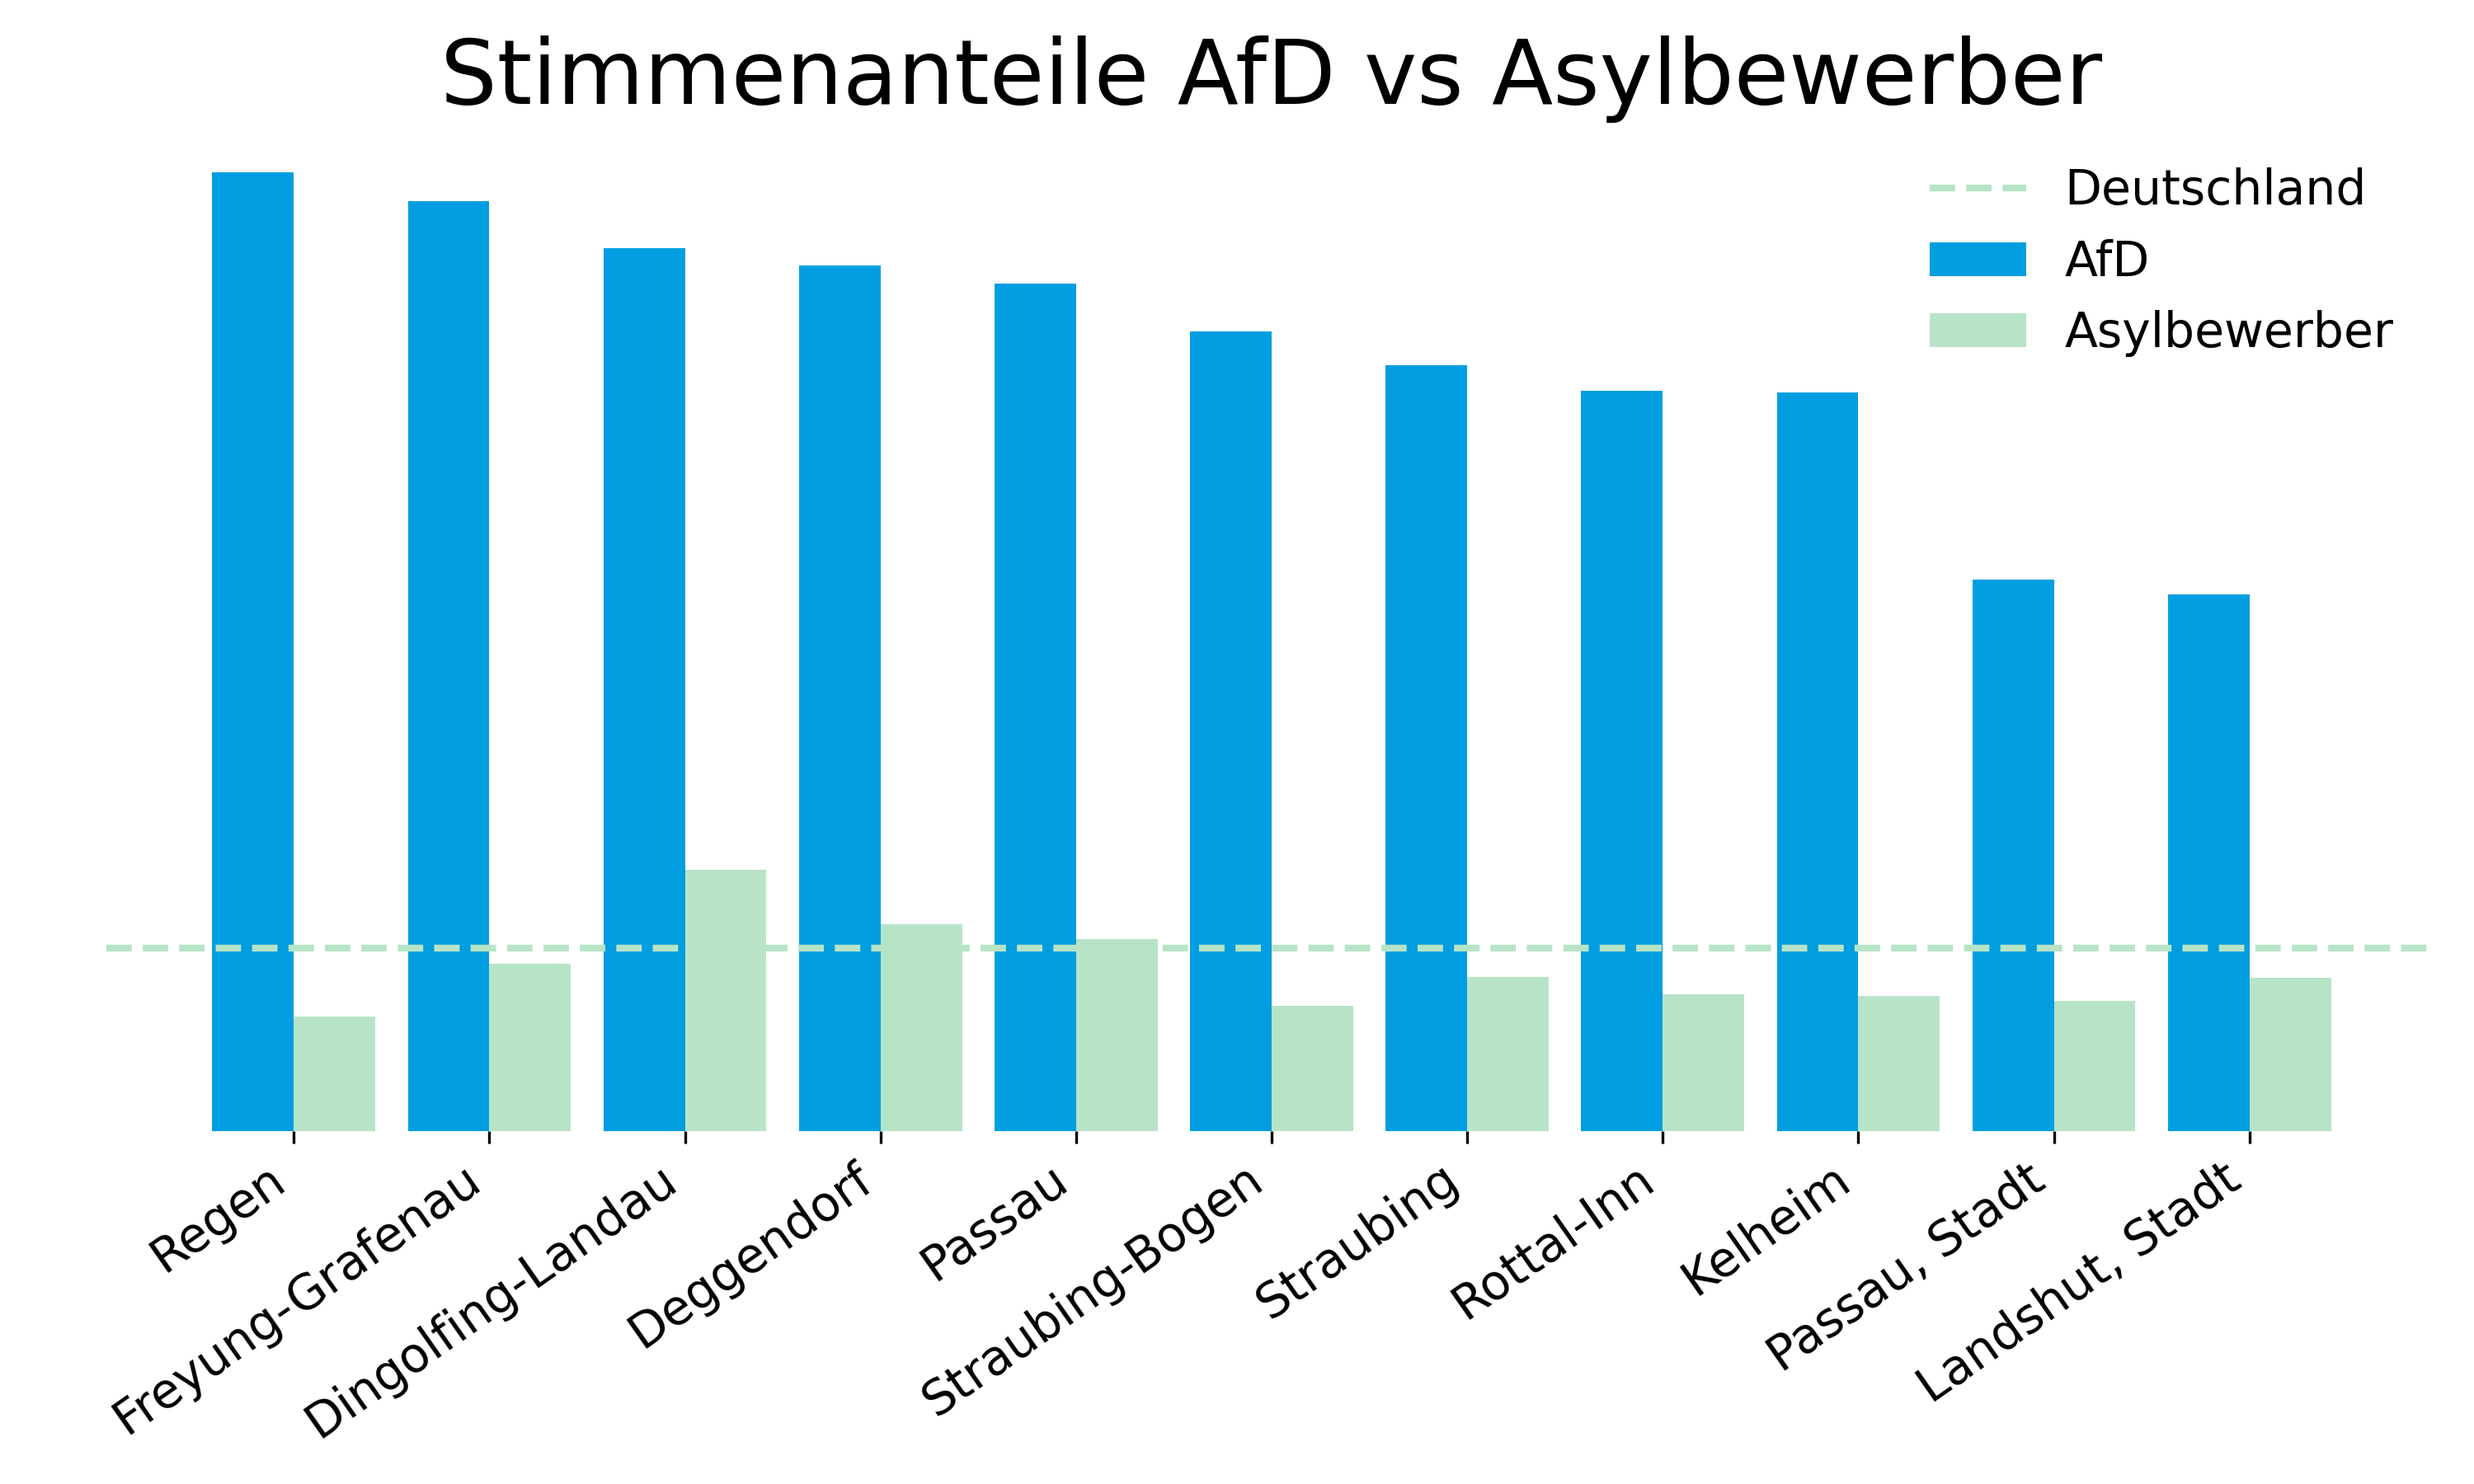
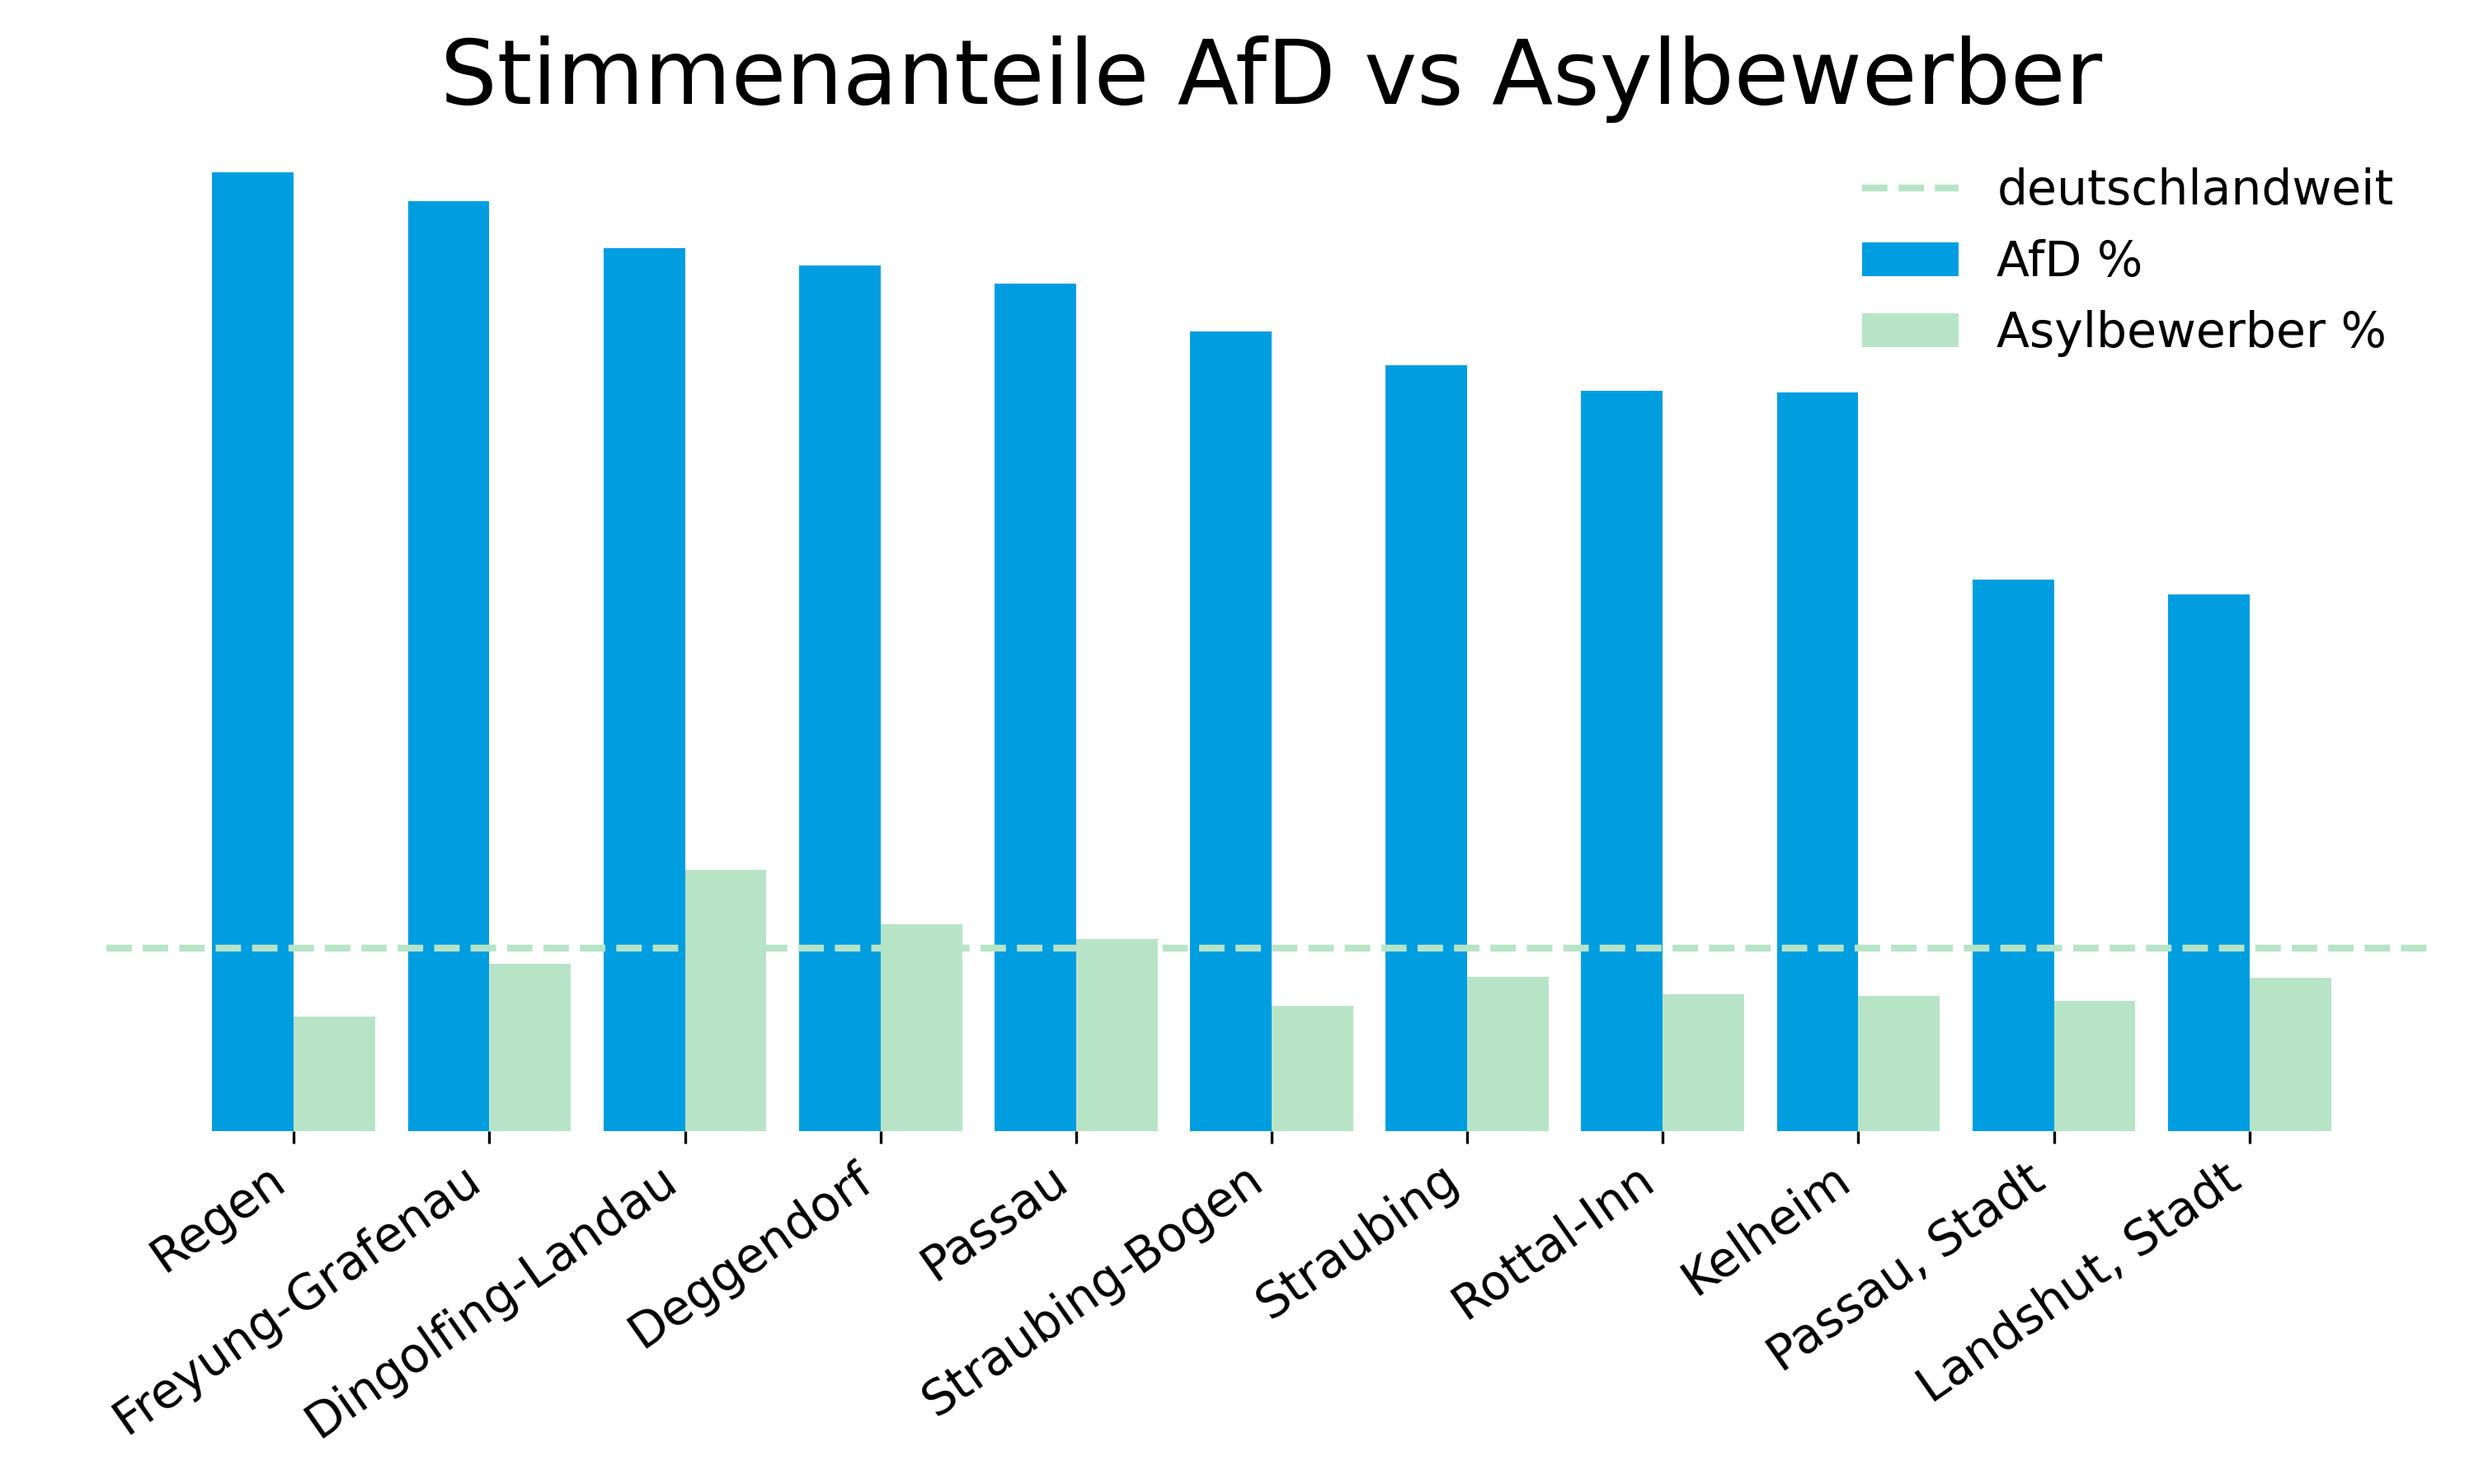
feinschliff

Changed region(s): [[0.744, 0.0933, 0.961, 0.2489]]

diff --git a/plots/migration.py b/plots/migration.py
@@ -2,7 +2,7 @@ import matplotlib.pyplot as plt
 from pandas import read_csv
 import numpy as np
 
-df_nb = read_csv("data/processed/Tabelle Migration.csv")
+df_nb = read_csv("data/processed/migration.csv")
 
 df_nb = df_nb.sort_values("Stimmenanteile AfD", ascending=False)
 
@@ -13,11 +13,11 @@ x = np.arange(len(df_nb["Gemeinde"])) * 1.2
 width = 0.5
 
 plt.figure(figsize=(10,6))
-plt.bar(x - width/2, df_nb["Stimmenanteile AfD"], width, label="AfD", color = "#009EE0")
-plt.bar(x + 0.5*width, df_nb["Asylbewerber"], width, color="#B7E4C7", label="Asylbewerber")
+plt.bar(x - width/2, df_nb["Stimmenanteile AfD"], width, label="AfD %", color = "#009EE0")
+plt.bar(x + 0.5*width, df_nb["Asylbewerber"], width, color="#B7E4C7", label="Asylbewerber %")
 
 # baseline
-plt.axhline(y=gesamt_asyl, color="#B7E4C7", linestyle="--", linewidth=2, label="Deutschland")
+plt.axhline(y=gesamt_asyl, color="#B7E4C7", linestyle="--", linewidth=2, label="deutschlandweit")
 plt.xticks( ticks=x, labels=df_nb["Gemeinde"], rotation=35, fontsize=14, ha = "right")
 plt.legend(edgecolor="none", fontsize=14)
 
@@ -39,11 +39,11 @@ x = np.arange(len(df_nb["Gemeinde"])) * 1.4
 width = 0.5
 
 plt.figure(figsize=(10,6))
-plt.bar(x - width/2, df_nb["Stimmenanteile AfD"], width, label="AfD", color = "#009EE0")
-plt.bar(x + width/2, df_nb["Ausländeranteil"], width, color="#9E3EED", label="Ausländeranteil")
+plt.bar(x - width/2, df_nb["Stimmenanteile AfD"], width, label="AfD %", color = "#009EE0")
+plt.bar(x + width/2, df_nb["Ausländeranteil"], width, color="#9E3EED", label="Ausländeranteil %")
 
 # baseline
-plt.axhline(y=gesamt_ausl, color="#9E3EED", linestyle="--", linewidth=2, label="Deutschland")
+plt.axhline(y=gesamt_ausl, color="#9E3EED", linestyle="--", linewidth=2, label="deutschlandweit")
 plt.xticks( ticks=x, labels=df_nb["Gemeinde"], rotation=35, fontsize=14, ha = "right")
 
 plt.legend(edgecolor='none', fontsize=14)

diff --git a/plots/land_prices.py b/plots/land_prices.py
@@ -1,4 +1,5 @@
 import matplotlib.pyplot as plt
+import matplotlib.ticker as mtick
 from pandas import read_csv
 import numpy as np
 
@@ -24,24 +25,26 @@ width = 0.35
 fig, ax1= plt.subplots(figsize=(10,6))
 
 # AfD bars on primary y-axis
-ax1.bar(x - width/2, df["Stimmenanteile AfD"], width, color="#009EE0", label="Stimmenanteile AfD")
+ax1.bar(x - width/2, df["Stimmenanteile AfD"], width, color="#009EE0", label="AfD %")
 ax1.set_xticks(x)
 ax1.set_xticklabels(df["Gemeinde"], rotation=35, ha="right", fontsize=14)
 ax1.set_ylim(0, 40)
 ax1.set_yticks([0, 10, 20, 30])
+ax1.yaxis.set_major_formatter(mtick.StrMethodFormatter('% {x:.0f}'))
 
 # land prices on secondary y-axis
 ax2 = ax1.twinx()
-ax2.bar(x + width/2, df["Baulandpreise"], width, color="#FFC422", label="Baulandpreise")
+ax2.bar(x + width/2, df["Baulandpreise"], width, color="#FFC422", label="Baulandpreise in qm")
 ax2.set_ylim(0, max(df["Baulandpreise"])*1.1)
 ax2.set_yticks([0, 400, 800, 1200])
+ax2.yaxis.set_major_formatter(mtick.StrMethodFormatter('€ {x:.0f}'))
 
 # combine legends
 lines_1, labels_1 = ax1.get_legend_handles_labels()
 lines_2, labels_2 = ax2.get_legend_handles_labels()
 leg = ax1.legend(lines_1 + lines_2, labels_1 + labels_2, loc="upper left", fontsize=14)
 leg.set_frame_on(False)
-plt.title("Simmenanteile AfD  vs Baulandpreise", fontsize=26)
+plt.title("Stimmenanteile AfD  vs Baulandpreise pro qm", fontsize=26)
 
 # remove spines from both axes
 for ax in [ax1, ax2]:

diff --git a/plots/crimes.py b/plots/crimes.py
@@ -20,7 +20,7 @@ ax1.set_yticks([0, 10, 20, 30])
 
 # crimes on secondary y-axis
 ax2 = ax1.twinx()
-ax2.bar(x + width/2, df_nb["Straftaten"], width, color="#FFB266", label="Straftaten je 100k")
+ax2.bar(x + width/2, df_nb["Straftaten"], width, color="#FFB266", label="Straftaten je 100.000 Einwohner")
 ax2.set_ylim(0, max(df_nb["Straftaten"])*1.1)  # small margin above
 ax2.set_yticks([0, 4000, 8000, 12000])
 
@@ -29,7 +29,7 @@ lines_1, labels_1 = ax1.get_legend_handles_labels()
 lines_2, labels_2 = ax2.get_legend_handles_labels()
 leg = ax1.legend(lines_1 + lines_2, labels_1 + labels_2, loc="upper left", fontsize=14)
 leg.set_frame_on(False)
-plt.title("Simmenanteile AfD  vs Straftaten", fontsize=26)
+plt.title("Stimmenanteile AfD  vs Straftaten", fontsize=26)
 
 # remove spines from both axes
 for ax in [ax1, ax2]:

diff --git a/plots/economy.py b/plots/economy.py
@@ -14,11 +14,11 @@ x = np.arange(len(df_nb["Gemeinde"])) * 1.4
 width = 0.4
 
 plt.figure(figsize=(10,6))
-plt.bar(x - width/2, df_nb["Stimmenanteile AfD"], width, label="AfD", color = "#009EE0")
+plt.bar(x - width/2, df_nb["Stimmenanteile AfD"], width, label="AfD %", color = "#009EE0")
 plt.bar(x + 0.5*width, df_nb["Ausländische Arbeitslose"], width, color="#F25A7D", label="Ausländische Arbeitslose")
 
 # unemployment baseline
-plt.axhline(y=gesamt_alq_ausl, color="#F25A7D", linestyle="--", linewidth=2, label = "Deutschland Ausländische Arbeitslose")
+plt.axhline(y=gesamt_alq_ausl, color="#F25A7D", linestyle="--", linewidth=2, label = "deutschlandweit")
 
 # remove the frame
 for spine in plt.gca().spines.values():

diff --git a/plots/election.py b/plots/election.py
@@ -40,7 +40,8 @@ for i, val in enumerate(df_plot["Share"]):
 for spine in plt.gca().spines.values():
     spine.set_visible(False)
 plt.yticks([])
-plt.xticks( fontsize=14)
+plt.xticks(fontsize=14)
 
 plt.tight_layout()
 plt.savefig("plots/election_nb.png", dpi=300)
+plt.show()
